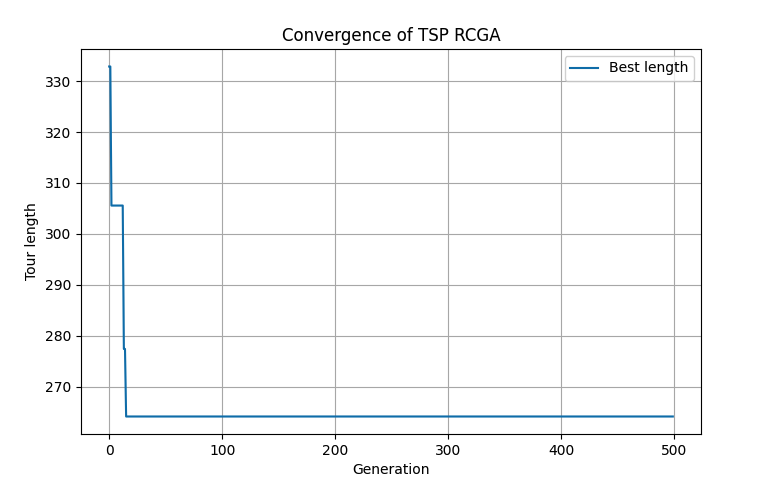
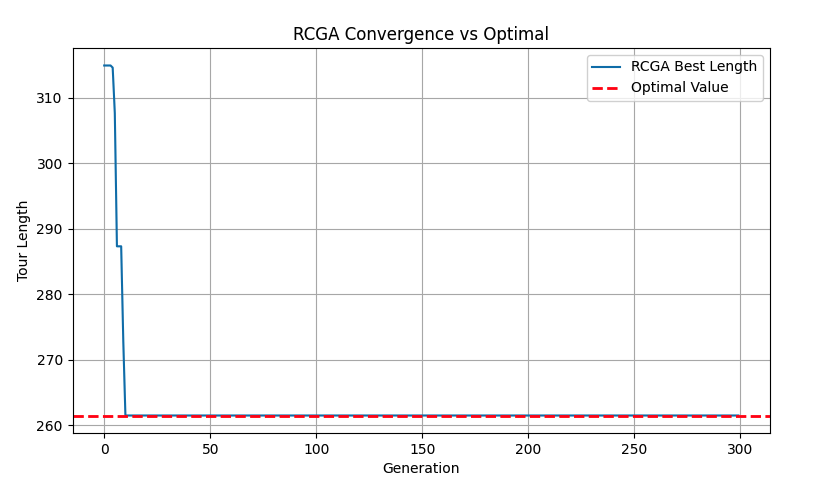
best lenght

diff --git a/rcga.py b/rcga.py
@@ -1,5 +1,6 @@
 import random
 import math
+import itertools
 import matplotlib.pyplot as plt
 
 # =========================
@@ -65,7 +66,7 @@ class TSP_RCGA:
         for x1, x2 in zip(p1, p2):
             cmin, cmax = min(x1, x2), max(x1, x2)
             I = cmax - cmin
-            low, high = cmin - self.alpha*I, cmax + self.alpha*I
+            low, high = cmin - self.alpha * I, cmax + self.alpha * I
             v1, v2 = random.uniform(low, high), random.uniform(low, high)
             c1.append(min(1.0, max(0.0, v1)))
             c2.append(min(1.0, max(0.0, v2)))
@@ -78,30 +79,48 @@ class TSP_RCGA:
                 individual[i] = min(1.0, max(0.0, individual[i]))
         return individual
 
-    def run(self, verbose=True):
-        population = [self._random_individual() for _ in range(self.pop_size)]
-
-        best_individual = None
+    # ================================
+    # TÍNH GIÁ TRỊ ĐÚNG (BRUTE FORCE)
+    # ================================
+    def compute_optimal_solution(self):
+        print("Đang brute-force nghiệm đúng... có thể mất vài giây.")
+        cities = list(range(self.n_cities))
         best_length = float('inf')
         best_tour = None
-        convergence = []  # lưu độ dài tốt nhất theo thế hệ
+
+        for perm in itertools.permutations(cities):
+            length = self._tour_length(perm)
+            if length < best_length:
+                best_length = length
+                best_tour = perm
+
+        print(">>> Giá trị đúng (Optimal):", best_length)
+        return best_length, best_tour
+
+    # ================================
+    #          CHẠY GIẢI THUẬT
+    # ================================
+    def run(self, verbose=True):
+
+        # Tính nghiệm đúng trước
+        optimal_value, optimal_tour = self.compute_optimal_solution()
+
+        population = [self._random_individual() for _ in range(self.pop_size)]
+        best_length = float('inf')
+        convergence = []
 
         for gen in range(self.generations):
+
             fitnesses = [self._fitness(ind) for ind in population]
 
-            # Cập nhật best
-            for ind, fit in zip(population, fitnesses):
+            # Lấy best
+            for ind in population:
                 tour = self._decode(ind)
                 length = self._tour_length(tour)
                 if length < best_length:
                     best_length = length
-                    best_individual = ind[:]
-                    best_tour = tour[:]
 
             convergence.append(best_length)
-
-            if verbose and gen % 50 == 0:
-                print(f"Generation {gen}: best length = {best_length:.4f}")
 
             # Tạo quần thể mới
             new_pop = []
@@ -114,49 +133,35 @@ class TSP_RCGA:
                 else:
                     c1, c2 = p1[:], p2[:]
 
-                c1 = self._mutate_gaussian(c1)
-                c2 = self._mutate_gaussian(c2)
-
-                new_pop.append(c1)
+                new_pop.append(self._mutate_gaussian(c1))
                 if len(new_pop) < self.pop_size:
-                    new_pop.append(c2)
+                    new_pop.append(self._mutate_gaussian(c2))
 
             population = new_pop
 
-        # Hiển thị kết quả
-        if verbose:
-            print("===== KẾT QUẢ =====")
-            print("Best tour:", best_tour)
-            print("Best length:", best_length)
+        # =============================
+        # HIỆN SƠ ĐỒ HỘI TỤ
+        # =============================
+        plt.figure(figsize=(9, 5))
+        plt.plot(convergence, label="RCGA Best Length")
+        plt.axhline(optimal_value, color="red", linestyle="--", linewidth=2, label="Optimal Value")
+        plt.xlabel("Generation")
+        plt.ylabel("Tour Length")
+        plt.title("RCGA Convergence vs Optimal")
+        plt.grid(True)
+        plt.legend()
+        plt.show()
 
-            # Vẽ sơ đồ hội tụ
-            plt.figure(figsize=(8,5))
-            plt.plot(convergence, label="Best length")
-            plt.xlabel("Generation")
-            plt.ylabel("Tour length")
-            plt.title("Convergence of TSP RCGA")
-            plt.grid(True)
-            plt.legend()
-            plt.show()
-
-        return best_tour, best_length, best_individual
+        return optimal_value, best_length, convergence
 
 
 # =========================
-#  Ví dụ chạy thử
+#  CHẠY THỬ
 # =========================
 if __name__ == "__main__":
     random.seed(42)
-    n_cities = 10
+    n_cities = 9     # brute-force cần nhỏ (<10)
     coords = [(random.uniform(0, 100), random.uniform(0, 100)) for _ in range(n_cities)]
 
-    ga = TSP_RCGA(coords,
-                  pop_size=60,
-                  generations=500,
-                  pc=0.9,
-                  pm=0.1,
-                  alpha=0.3,
-                  sigma=0.1,
-                  tournament_size=3)
-
-    best_tour, best_length, best_individual = ga.run(verbose=True)
+    ga = TSP_RCGA(coords, pop_size=60, generations=300)
+    optimal, best_ga, conv = ga.run()
